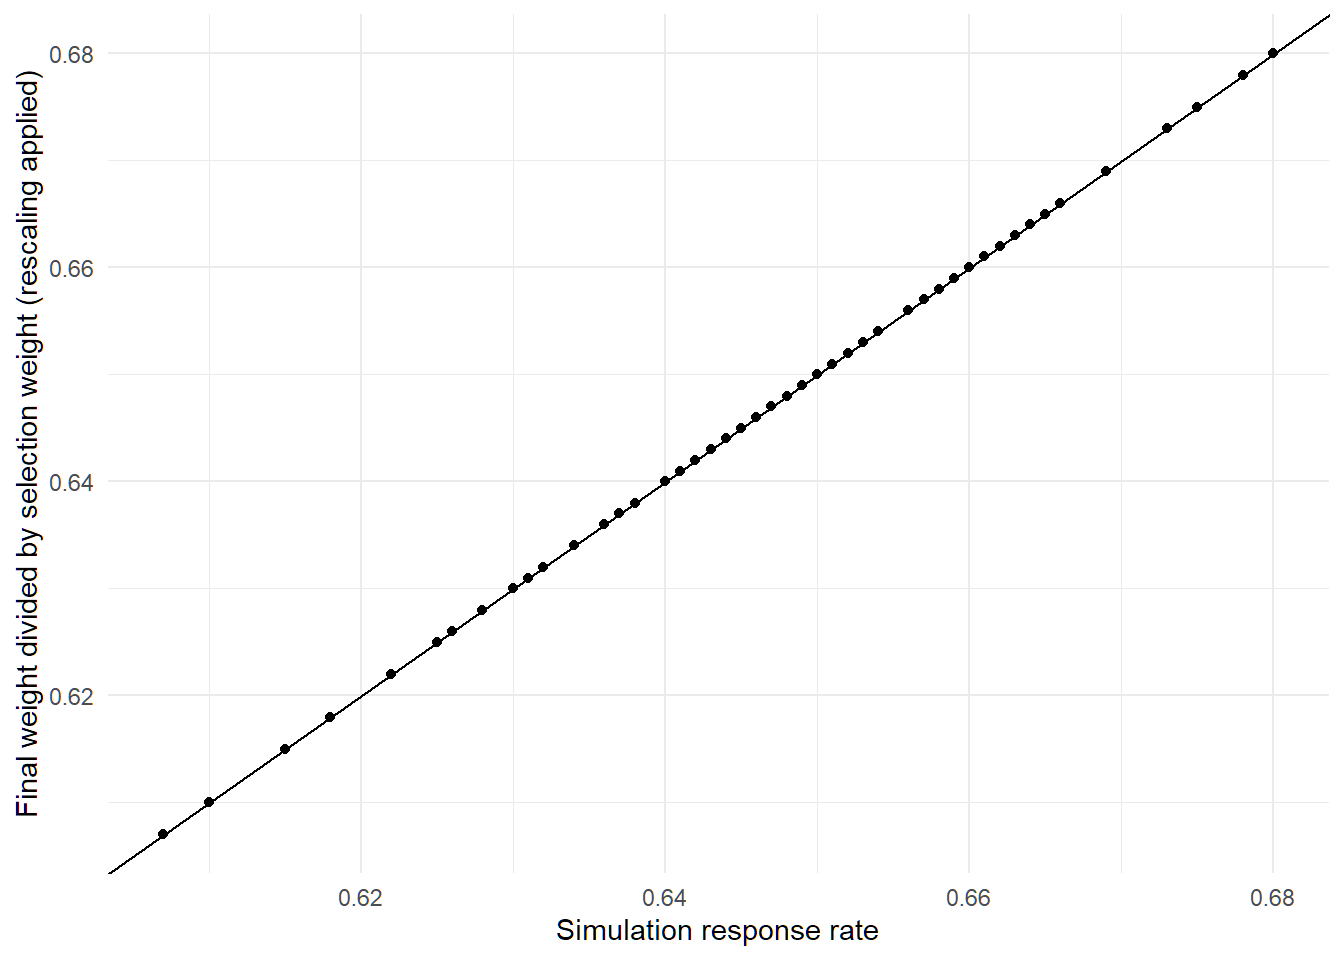
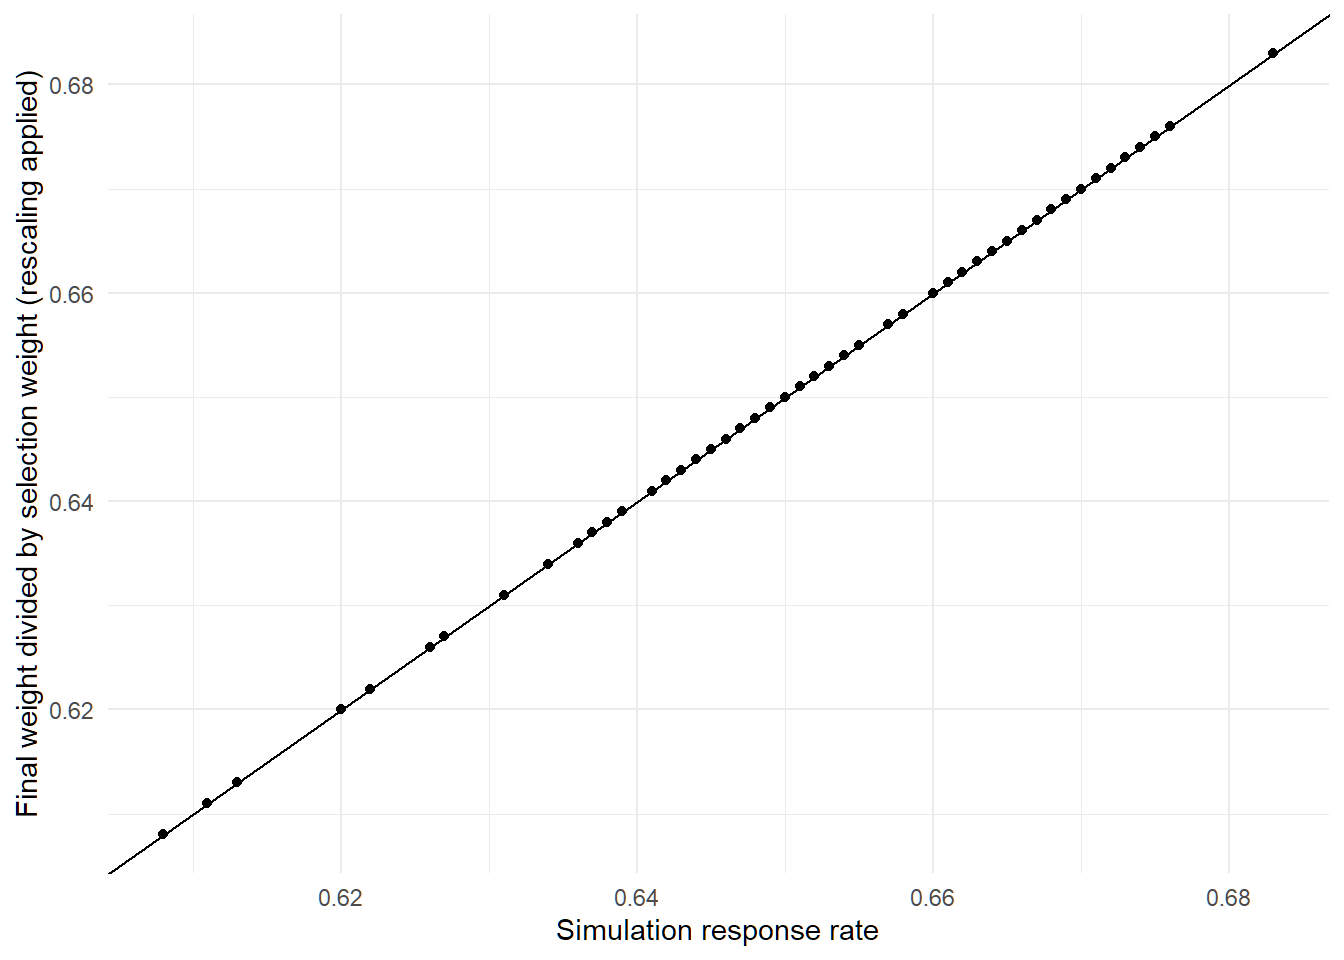
urgh

diff --git a/content/post/why-is-this-the-answer/index.html b/content/post/why-is-this-the-answer/index.html
@@ -33,12 +33,12 @@ math: yes
 <p>After an hour of failing to work out an analytic proof, I thought it would be worth doing a simulation to see whether the claim is at least empirically true.</p>
 <p>Let’s do a simple two-stage sample where households are randomly selected, then a respondent is randomly selected from that household. This means that people in larger households have a lower probability of selection. If you live alone there’s a 100% chance of selection conditional on your household being selected, whereas if you live in a two-person household your selection probability is 50%.</p>
 <p>Conditional on being selected for the survey, rich people respond at 100% and poor people respond at 30%.</p>
-<p>So after simulating that, I look at the response rate for the simulation (0.631) and the minimum value of the ratios of the final true weight to the selection weight (0.633). Not far off, but also not identical. So, it looks like my initial guess about the constraint might be on the right track but not exactly right.</p>
+<p>So after simulating that, I look at the response rate for the simulation (0.645) and the minimum value of the ratios of the final true weight to the selection weight (0.648). Not far off, but also not identical. So, it looks like my initial guess about the constraint might be on the right track but not exactly right.</p>
 <p>Let’s try this a few more times and see whether it’s robust.</p>
 <p><img src="{{< blogdown/postref >}}index_files/figure-html/unnamed-chunk-2-1.png" width="672" /></p>
 <p>After 100 simulations, it’s clear that there’s a very strong relationship, but this not an exact match.</p>
 <p>So what’s going on with those ratios? The mean of the scaled inverse-probability weights is always exactly 1 in the simulation as is the mean of the scaled selection weights.</p>
-<p>However, the ratios themselves do not always have a mean of exactly one. In fact, on average, they are 0.0092 away from 1. But should we actually expect these ratios to be near one on average? If I simulate two random vectors and rescale them to both have a mean of 1, the average ratio of them isn’t usually anywhere near 1.</p>
+<p>However, the ratios themselves do not always have a mean of exactly one. In fact, on average, they are 0.0103 away from 1. But should we actually expect these ratios to be near one on average? If I simulate two random vectors and rescale them to both have a mean of 1, the average ratio of them isn’t usually anywhere near 1.</p>
 <pre class="r"><code>set.seed(1298)
 A &lt;- abs(rnorm(1000))
 B &lt;- abs(rnorm(1000))
@@ -48,7 +48,7 @@ mean(A/B)</code></pre>
 <pre><code>## [1] 4.292947</code></pre>
 <p>OK, well what if I rescale the ratios so that they <em>actually</em> have a mean of 1 rather than just being close to that?</p>
 <p><img src="{{< blogdown/postref >}}index_files/figure-html/unnamed-chunk-6-1.png" width="672" /></p>
-<p>Apparently, that nails the minimum weight exactly. The mean absolute difference between this adjusted ratio and the response rate for the survey is just 0.0000000000000000588418203051333. At that point I’m willing to believe any remaining differences are just about floating point precision.</p>
+<p>Apparently, that nails the minimum weight exactly. The mean absolute difference between this adjusted ratio and the response rate for the survey is just 0.0000000000000000766053886991358. At that point I’m willing to believe any remaining differences are just about floating point precision.</p>
 </div>
 <div id="does-this-work-with-different-simulation-parameters" class="section level1">
 <h1>Does this work with different simulation parameters?</h1>
